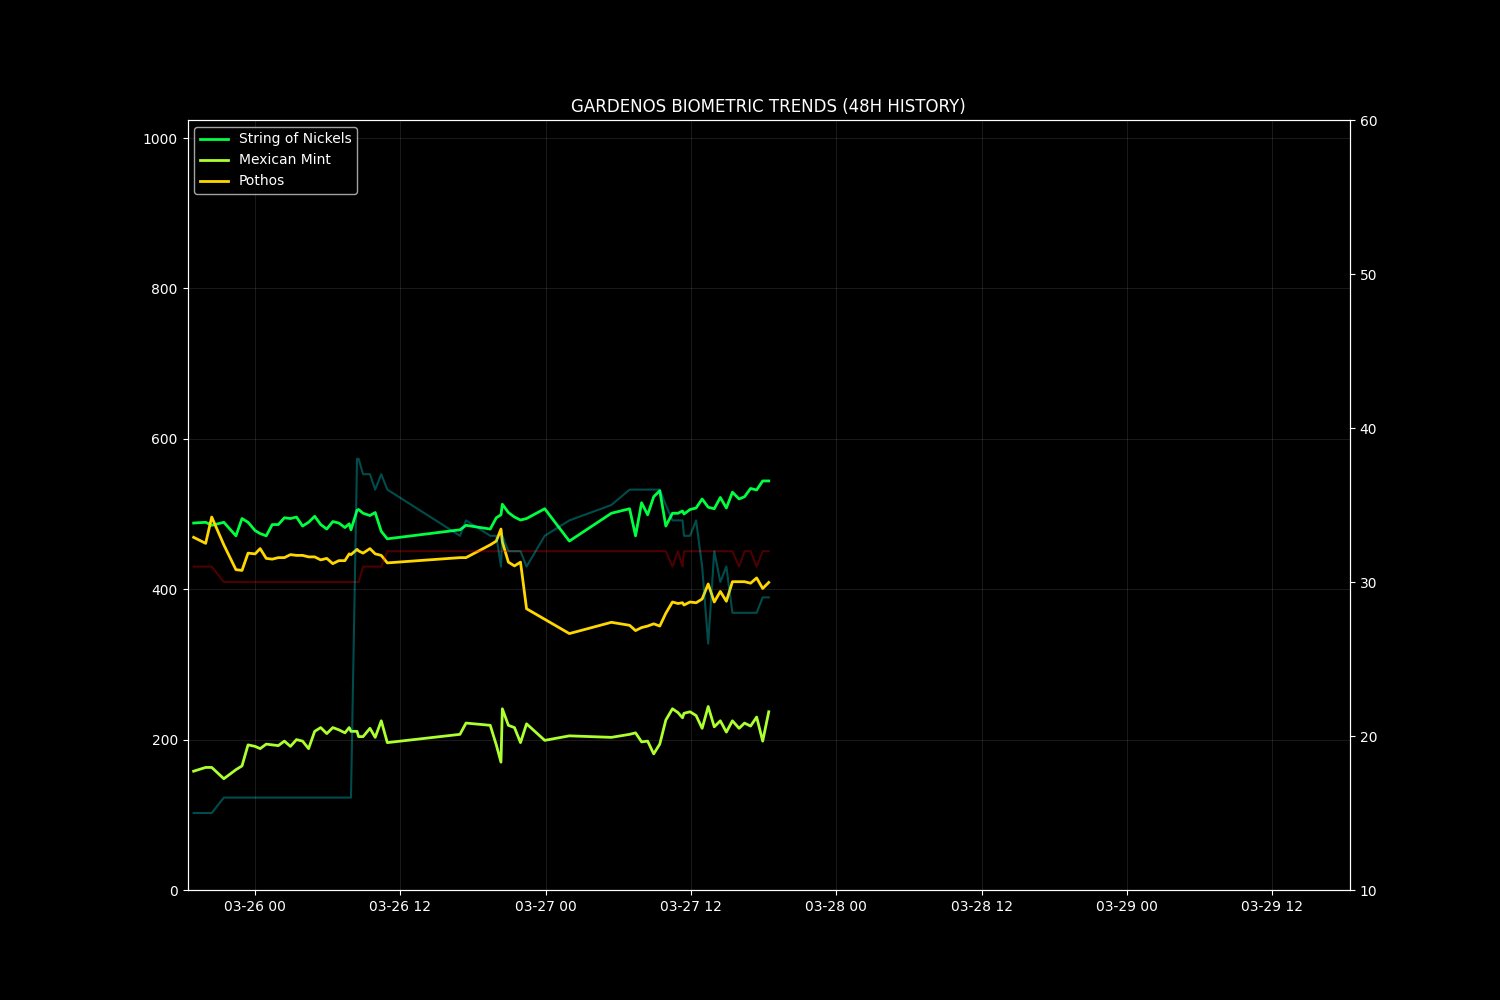
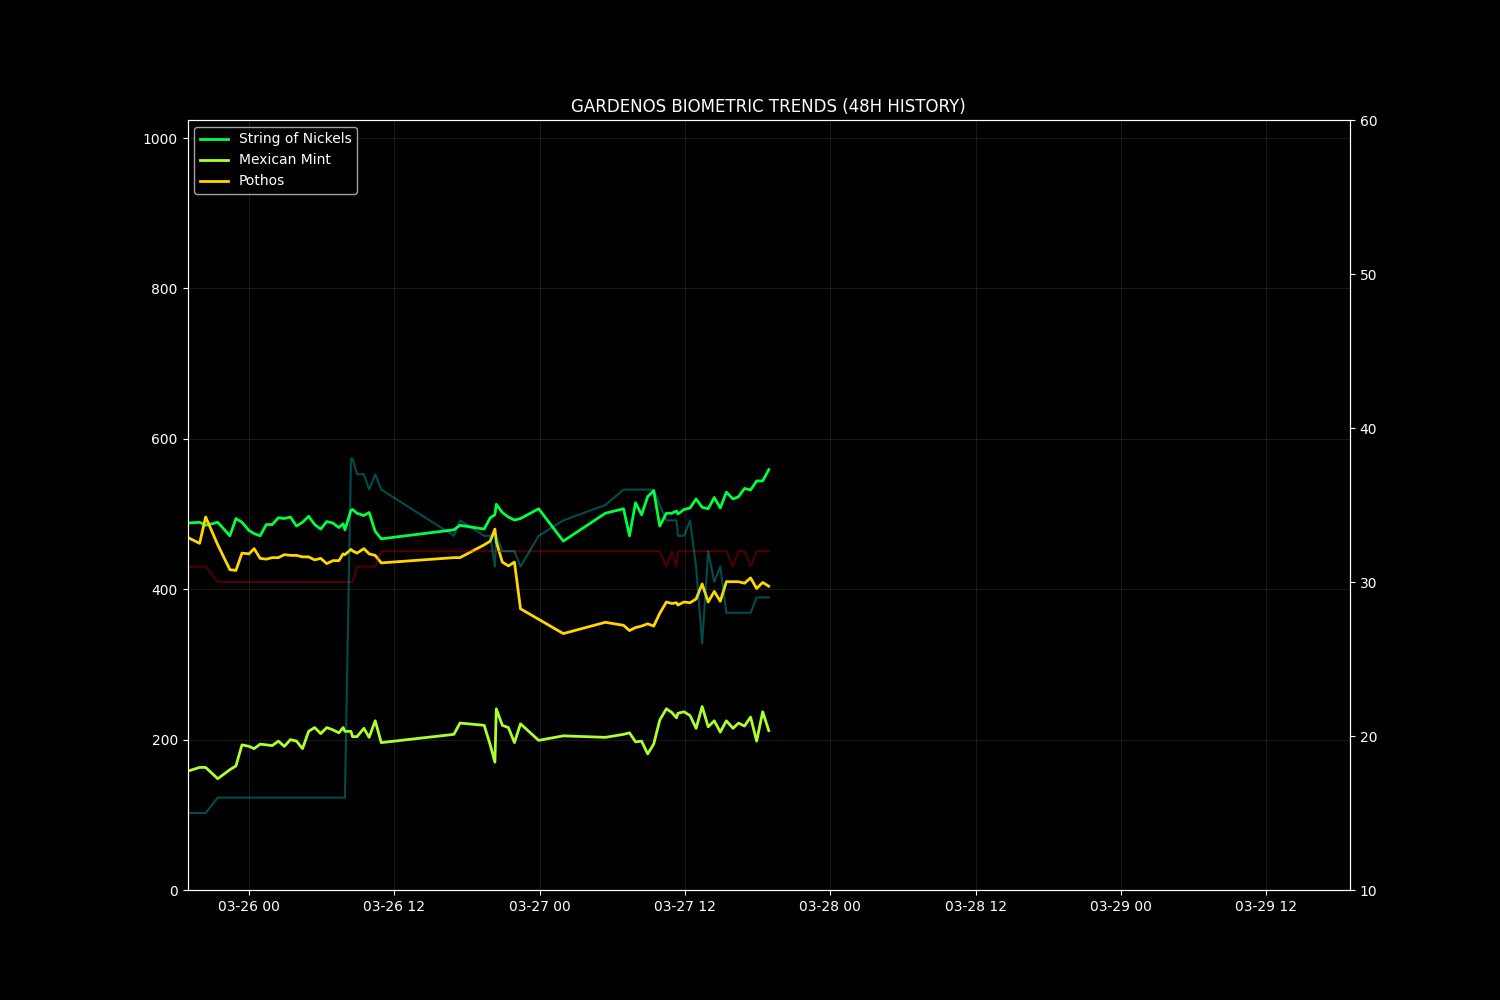
GardenOS Sync: 2026-03-27 19:05:02

diff --git a/data/observer_context.md b/data/observer_context.md
@@ -1,5 +1,5 @@
 # 📝 Project SILICA: Garden Observer Context
-**Generated:** 2026-03-27 17:58:01
+**Generated:** 2026-03-27 18:58:01
 
 ## 🏛 1. WORLD MODEL CONSTRAINTS (The Indoor Truth)
 (The Biome)
@@ -29,15 +29,13 @@
 
 ## 🧠 2. SEMANTIC FACT SYNTHESIS (The Warden's Logic)
 - **VPD State**: EXTREME (Critical Stress) at 3.376 kPa.
-- **Dry-down**: p1 is drying at a rate of 3.7% per interval.
+- **Dry-down**: p1 is drying at a rate of 4.6% per interval.
 - **Care Detected**: Sudden moisture spike in p2 (+10.7%). Likely misting or watering.
 - **Divergence**: Indoor humidity (29.0%) is significantly lower than Outdoor (62%). Confirming AC-clamped microclimate.
 
 ## 🌡 3. RECENT TELEMETRY (Verifier Data)
 ```csv
 timestamp,temp,hum,light,p1,p2,p3
-2026-03-27 12:25:28,32.0,34.0,659,508.0,232.0,382.0
-2026-03-27 12:55:28,32.0,31.0,659,520.0,215.0,387.0
 2026-03-27 13:25:28,32.0,26.0,540,509.0,244.0,407.0
 2026-03-27 13:55:28,32.0,32.0,586,507.0,217.0,383.0
 2026-03-27 14:25:29,32.0,30.0,601,522.0,225.0,397.0
@@ -48,14 +46,14 @@ timestamp,temp,hum,light,p1,p2,p3
 2026-03-27 16:55:28,32.0,28.0,825,534.0,218.0,408.0
 2026-03-27 17:25:29,31.0,28.0,850,532.0,230.0,415.0
 2026-03-27 17:55:28,32.0,29.0,881,544.0,198.0,401.0
+2026-03-27 18:25:28,32.0,29.0,866,544.0,237.0,409.0
+2026-03-27 18:55:28,32.0,29.0,868,559.0,212.0,404.0
 
 ```
 
 ## 📊 4. COMPUTED METRICS (Verifier Data)
 ```csv
 timestamp,vpd,p1_pct,p1_slope,p2_pct,p2_slope,p3_pct,p3_slope,p4_pct,p4_slope,p5_pct,p5_slope,p6_pct,p6_slope,p1_is_dry,p2_is_dry,p3_is_dry
-2026-03-27 12:25:28,3.138,67.2,,88.4,,83.2,,,,,,,,False,False,False
-2026-03-27 12:55:28,3.281,63.5,,95.7,,81.8,,,,,,,,False,False,False
 2026-03-27 13:25:28,3.518,66.9,,83.3,,76.1,,,,,,,,False,False,False
 2026-03-27 13:55:28,3.233,67.5,,94.8,,82.9,,,,,,,,False,False,False
 2026-03-27 14:25:29,3.328,62.9,,91.4,,78.9,,,,,,,,False,False,False
@@ -66,6 +64,8 @@ timestamp,vpd,p1_pct,p1_slope,p2_pct,p2_slope,p3_pct,p3_slope,p4_pct,p4_slope,p5
 2026-03-27 16:55:28,3.423,59.2,,94.4,,75.8,,,,,,,,False,False,False
 2026-03-27 17:25:29,3.235,59.8,,89.3,,73.8,,,,,,,,False,False,False
 2026-03-27 17:55:28,3.376,56.1,,100.0,,77.8,,,,,,,,False,False,False
+2026-03-27 18:25:28,3.376,56.1,,86.3,,75.5,,,,,,,,False,False,False
+2026-03-27 18:55:28,3.376,51.5,,97.0,,76.9,,,,,,,,False,False,False
 
 ```
 

diff --git a/logs/vision_ledger.md b/logs/vision_ledger.md
@@ -131,4 +131,6 @@ The Warden's Decision: Verdict: System stable. EXTREME VPD is a stress factor bu
 - **The Warden's Decision**: 
   Verdict: Localized stress in p2/p3 despite adequate soil moisture; p1/p4 healthy. Microclimate stable but transpiration stress likely from extreme VPD. 
   Action: Increase misting for p2/p3 to reduce leaf-level water loss; inspect middle pot for pests/disease; maintain current watering schedule (soil moist per visual). No sensor trust—visuals override. 
-  ---
+  ---## WARDEN REPORT - 2026-03-27 19:01
+
+**Vitality Pulse**: p1-p4: All plants exhibit turgid foliage with no signs of wilting or discoloration. Sensor readings: p1 51.5
